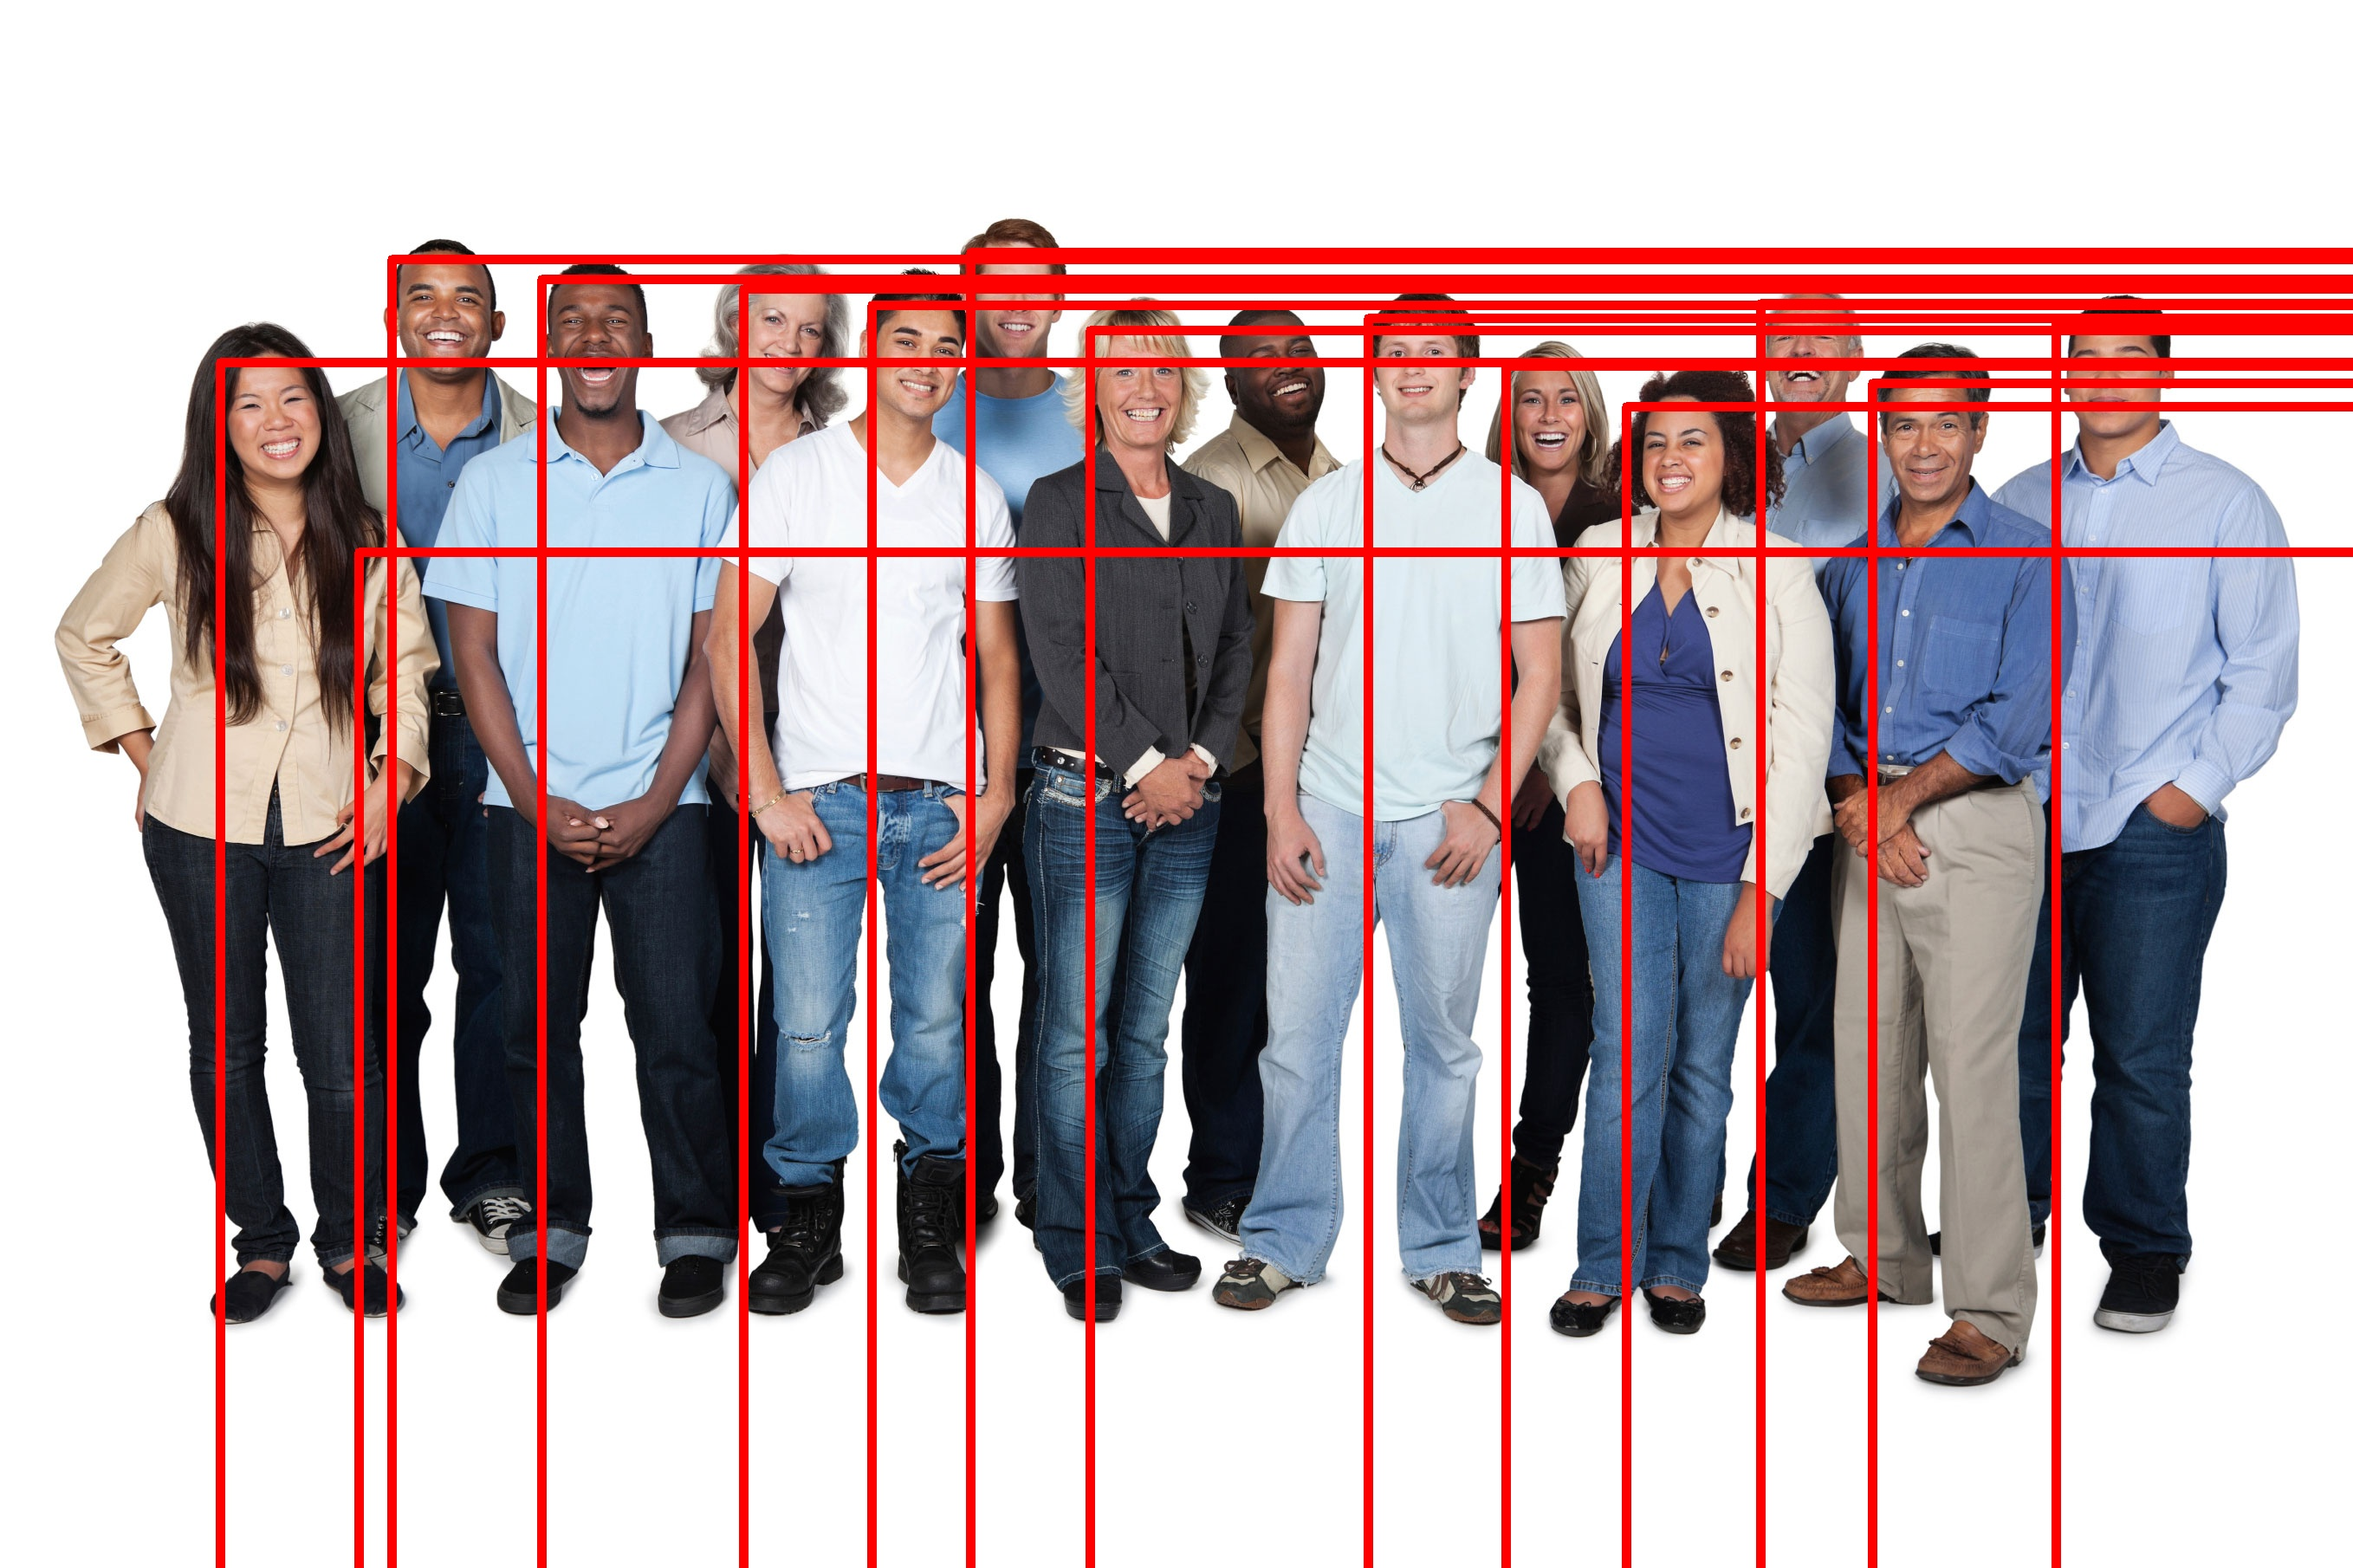
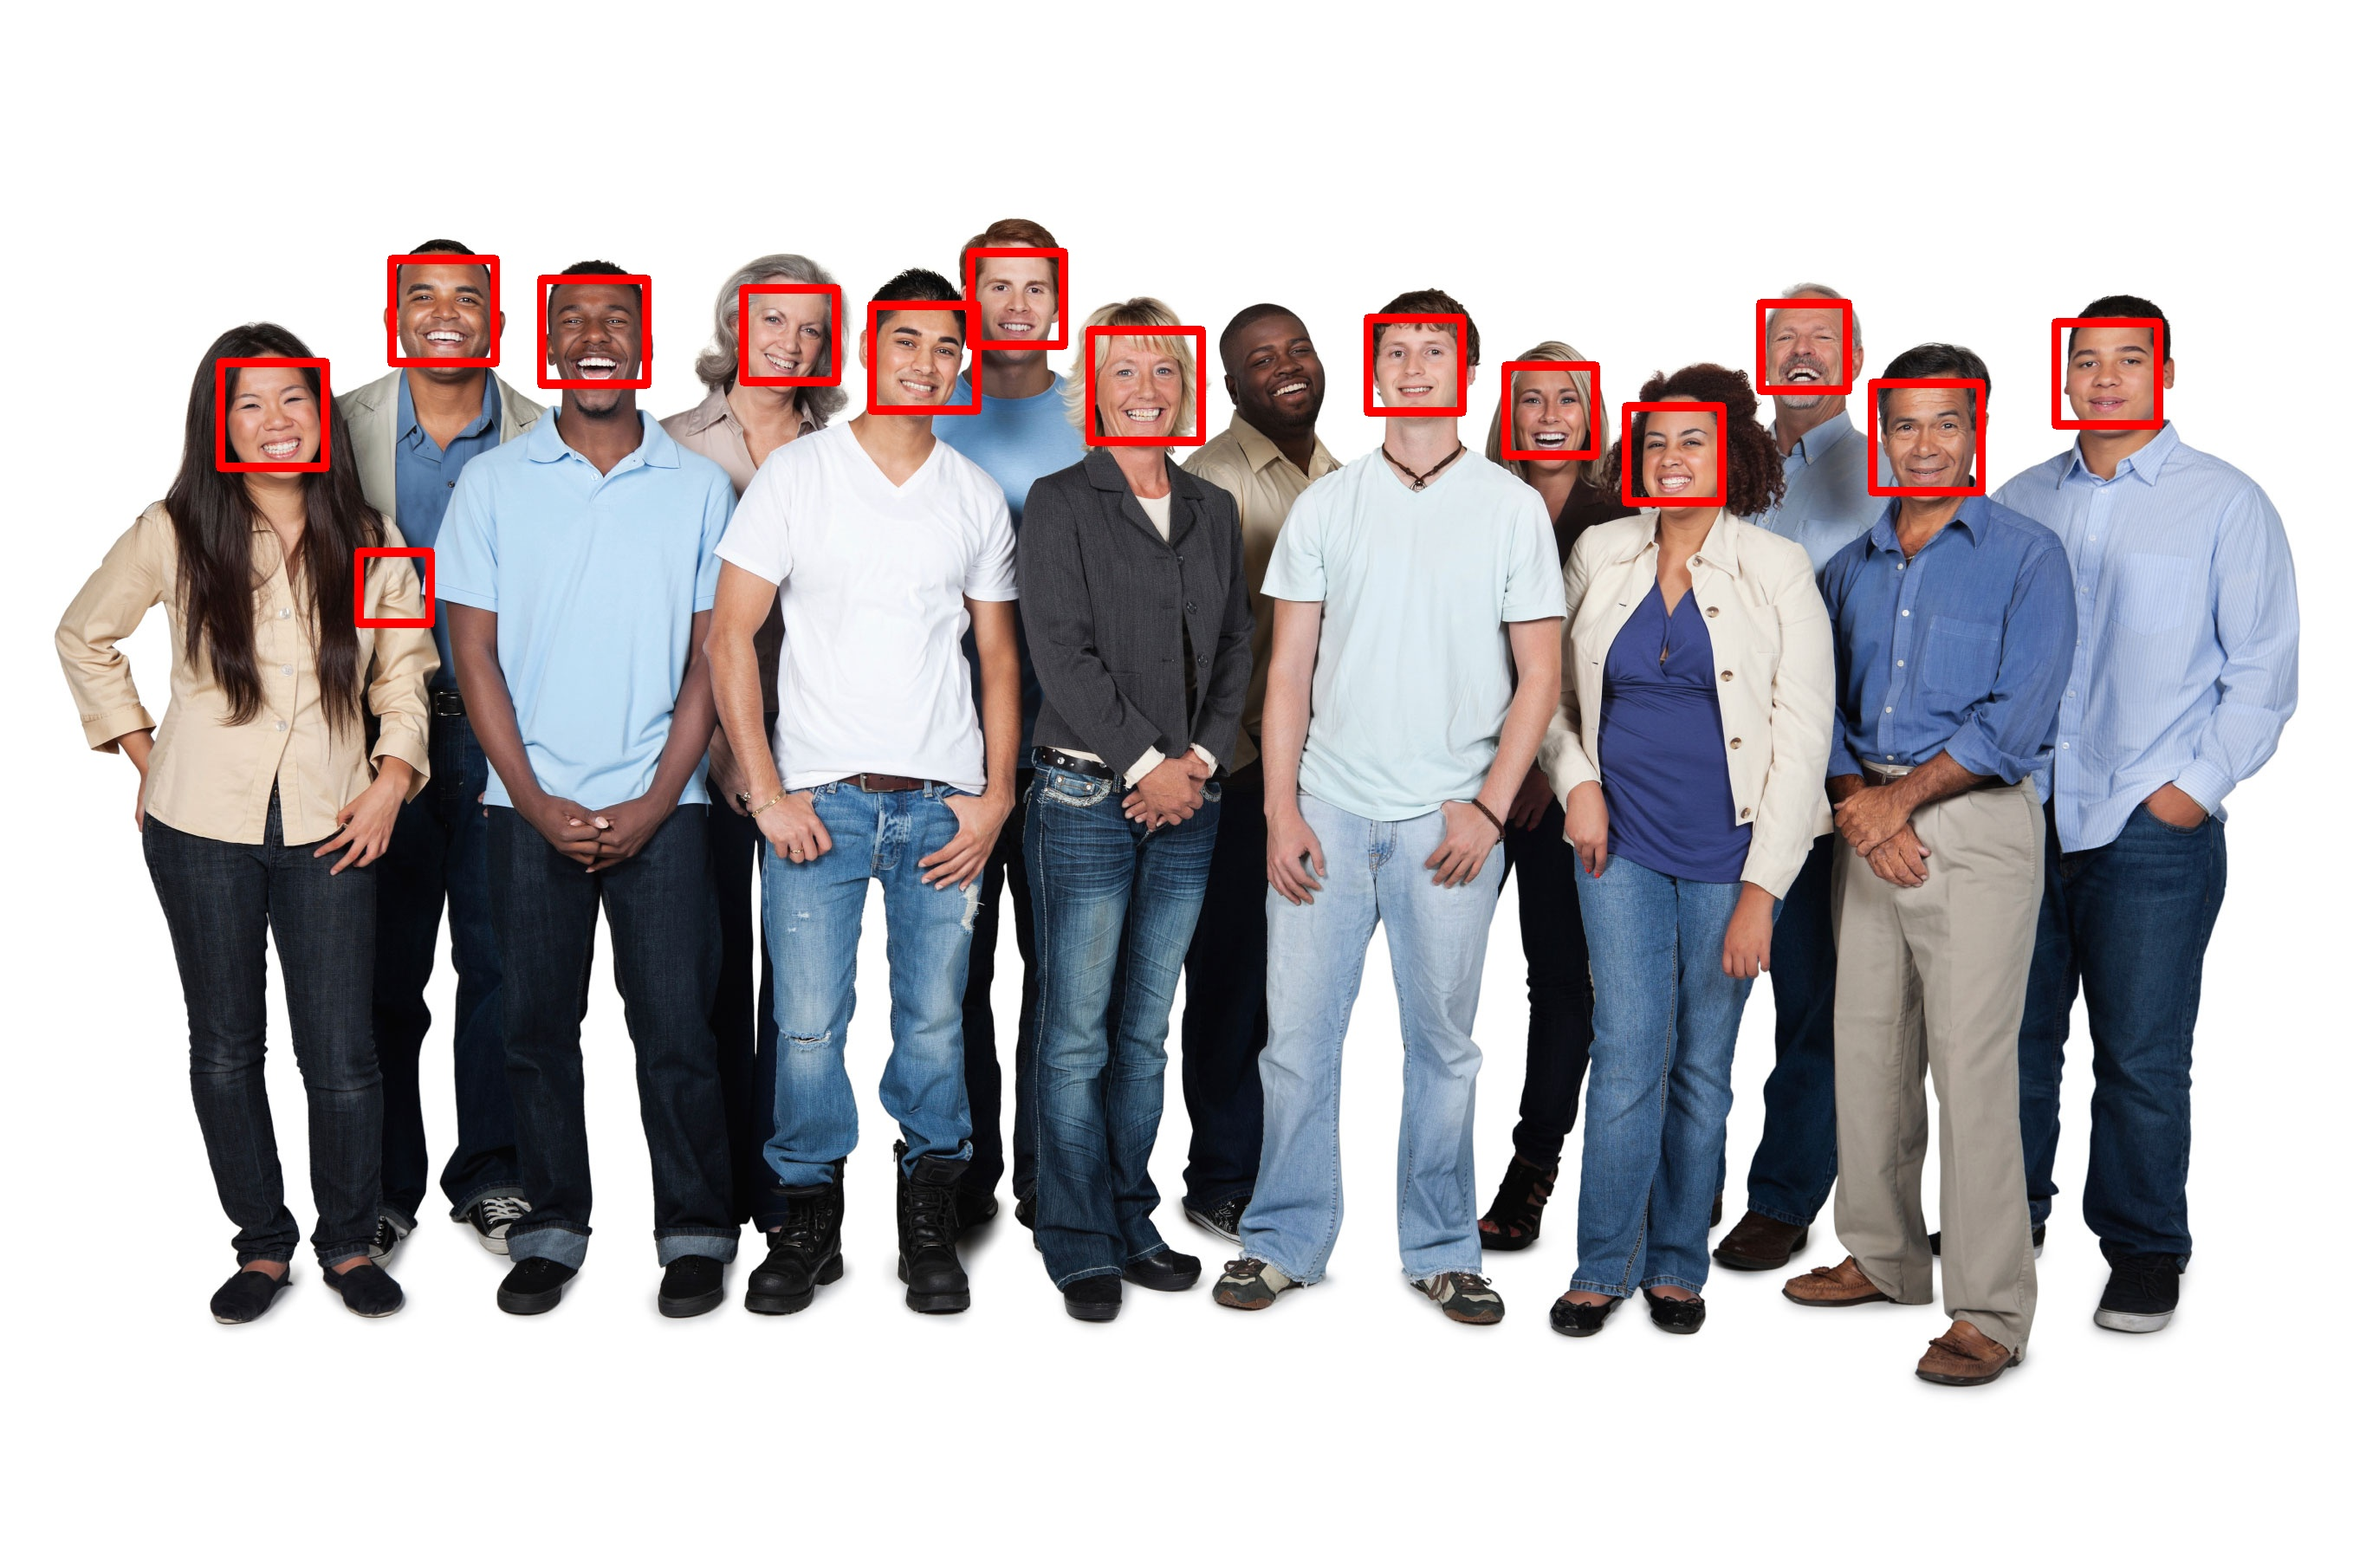
bug fixed

Changed region(s): [[0.0928, 0.1547, 1.0, 1.0]]

diff --git a/FaceDetection/facedet.py b/FaceDetection/facedet.py
@@ -10,6 +10,6 @@ grayImage = cv2.cvtColor(image, cv2.COLOR_BGR2GRAY)
 detectedFaces = casecadeClassifier.detectMultiScale(grayImage)
 
 for(x,y, width, height) in detectedFaces:
-    cv2.rectangle(image, (x,y), (x*width , y*height ), ( 0, 0, 255), 10)
+    cv2.rectangle(image, (x,y), (x+width , y+height ), ( 0, 0, 255), 10)
     
 cv2. imwrite('output.jpg', image)
